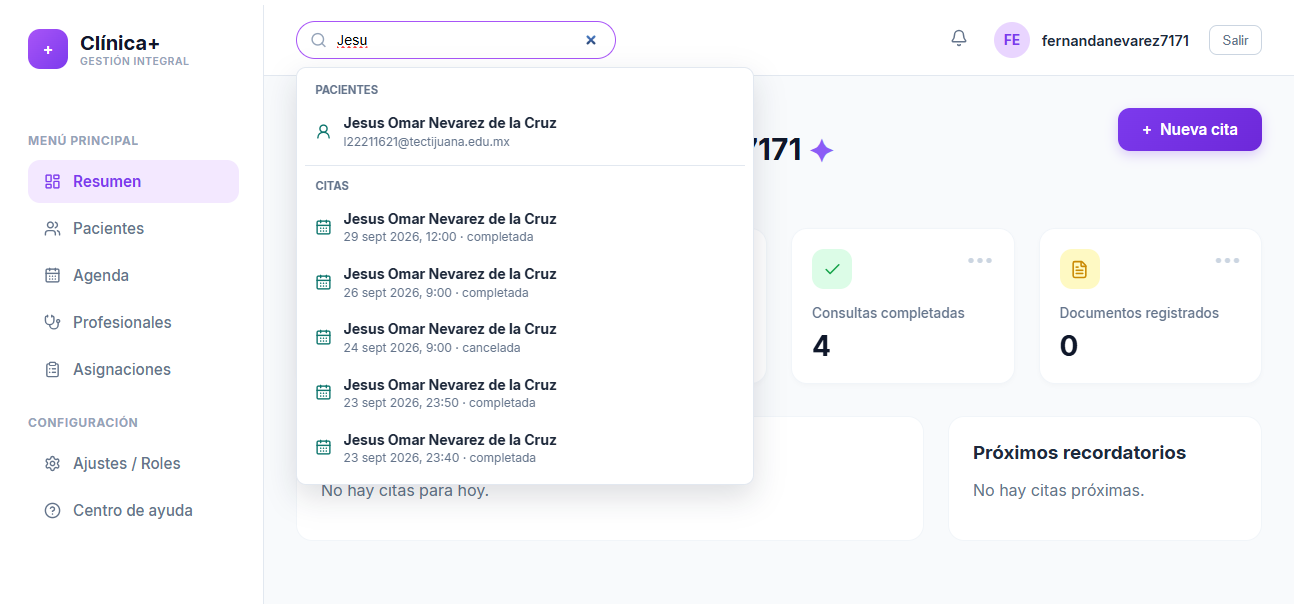
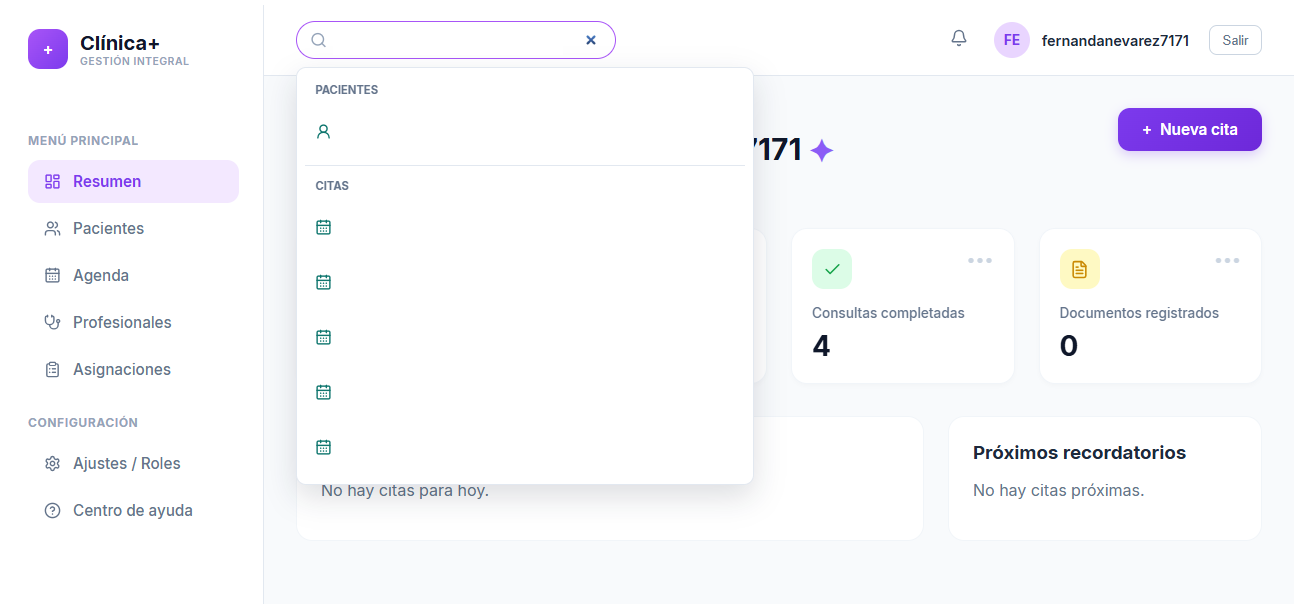
Ajustes

diff --git a/app/portfolio.tsx b/app/portfolio.tsx
@@ -78,6 +78,21 @@ const projects = [
     label: 'Datos en tiempo real',
     link: 'https://github.com/Fernanda3920/Monitoreo-de-Sensores-Ambientales-con-MQTT',
   },
+  {
+    number: '08',
+    title: 'AgendaPRO UABC Las Palmas.',
+    type: 'SALUD · GESTIÓN DE CITAS',
+    description: 'Plataforma web para médicos y pacientes que permite agendar citas, gestionar consultas y mantener auditorías de actividad. Actualmente en implementación en UABC Las Palmas.',
+    tags: ['Agenda médica', 'Gestión de pacientes', 'Consultas', 'Auditoría'],
+    visual: 'agenda',
+    label: 'En implementación · UABC Las Palmas',
+    link: null,
+    images: [
+      '/Captura de pantalla 2026-11-24 120703-agenda.png',
+      '/Captura de pantalla 2026-11-24 120738-agenda.png',
+      '/Captura de pantalla 2026-11-24 120815-agenda.png',
+    ],
+  },
 ]
 
 const skills = ['JavaScript', 'Python', 'React Native', 'React', 'Node.js', 'C# / .NET', 'SQL Server', 'PostgreSQL', 'AWS', 'Google Cloud', 'IoT / MQTT', 'Redes']

diff --git a/app/globals.css b/app/globals.css
@@ -41,6 +41,8 @@ a{color:inherit;text-decoration:none}
 .desktop-gallery{width:100%;height:100%;display:grid;grid-template-columns:repeat(auto-fit,minmax(0,1fr));gap:8px;padding:36px 32px 18px}
 .desktop-gallery img{width:100%;height:100%;object-fit:cover;object-position:top;border:1px solid #dfe2dc;border-radius:4px;box-shadow:0 16px 35px #3442391f;background:white}
 .desktop-gallery:has(img:only-child){grid-template-columns:1fr;padding:44px 52px 24px}
+.featured-project-media.agenda .desktop-gallery{grid-template-columns:repeat(2,minmax(0,1fr));align-content:center;padding:42px 24px 18px}
+.featured-project-media.agenda .desktop-gallery img{height:auto;aspect-ratio:1290/600;object-fit:contain}
 .featured-project-content{padding:8px 0}
 .featured-project-content h3{font-size:clamp(31px,3.3vw,48px);line-height:1.04;letter-spacing:-.055em;font-weight:500;margin:16px 0 15px;max-width:520px}
 .featured-project-content>p{font-size:13px;line-height:1.85;color:#6e7771;max-width:510px;margin:0}

diff --git a/app/layout.tsx b/app/layout.tsx
@@ -7,21 +7,8 @@ export const metadata: Metadata = {
   description: 'Portafolio de América Nevárez, desarrolladora de software en Tijuana. Proyectos de salud digital, Web3, inteligencia artificial e IoT.',
   generator: 'v0.app',
   icons: {
-    icon: [
-      {
-        url: '/icon-light-32x32.png',
-        media: '(prefers-color-scheme: light)',
-      },
-      {
-        url: '/icon-dark-32x32.png',
-        media: '(prefers-color-scheme: dark)',
-      },
-      {
-        url: '/icon.svg',
-        type: 'image/svg+xml',
-      },
-    ],
-    apple: '/apple-icon.png',
+    icon: '/icon__1_-removebg-preview.png',
+    apple: '/icon__1_-removebg-preview.png',
   },
 }
 
